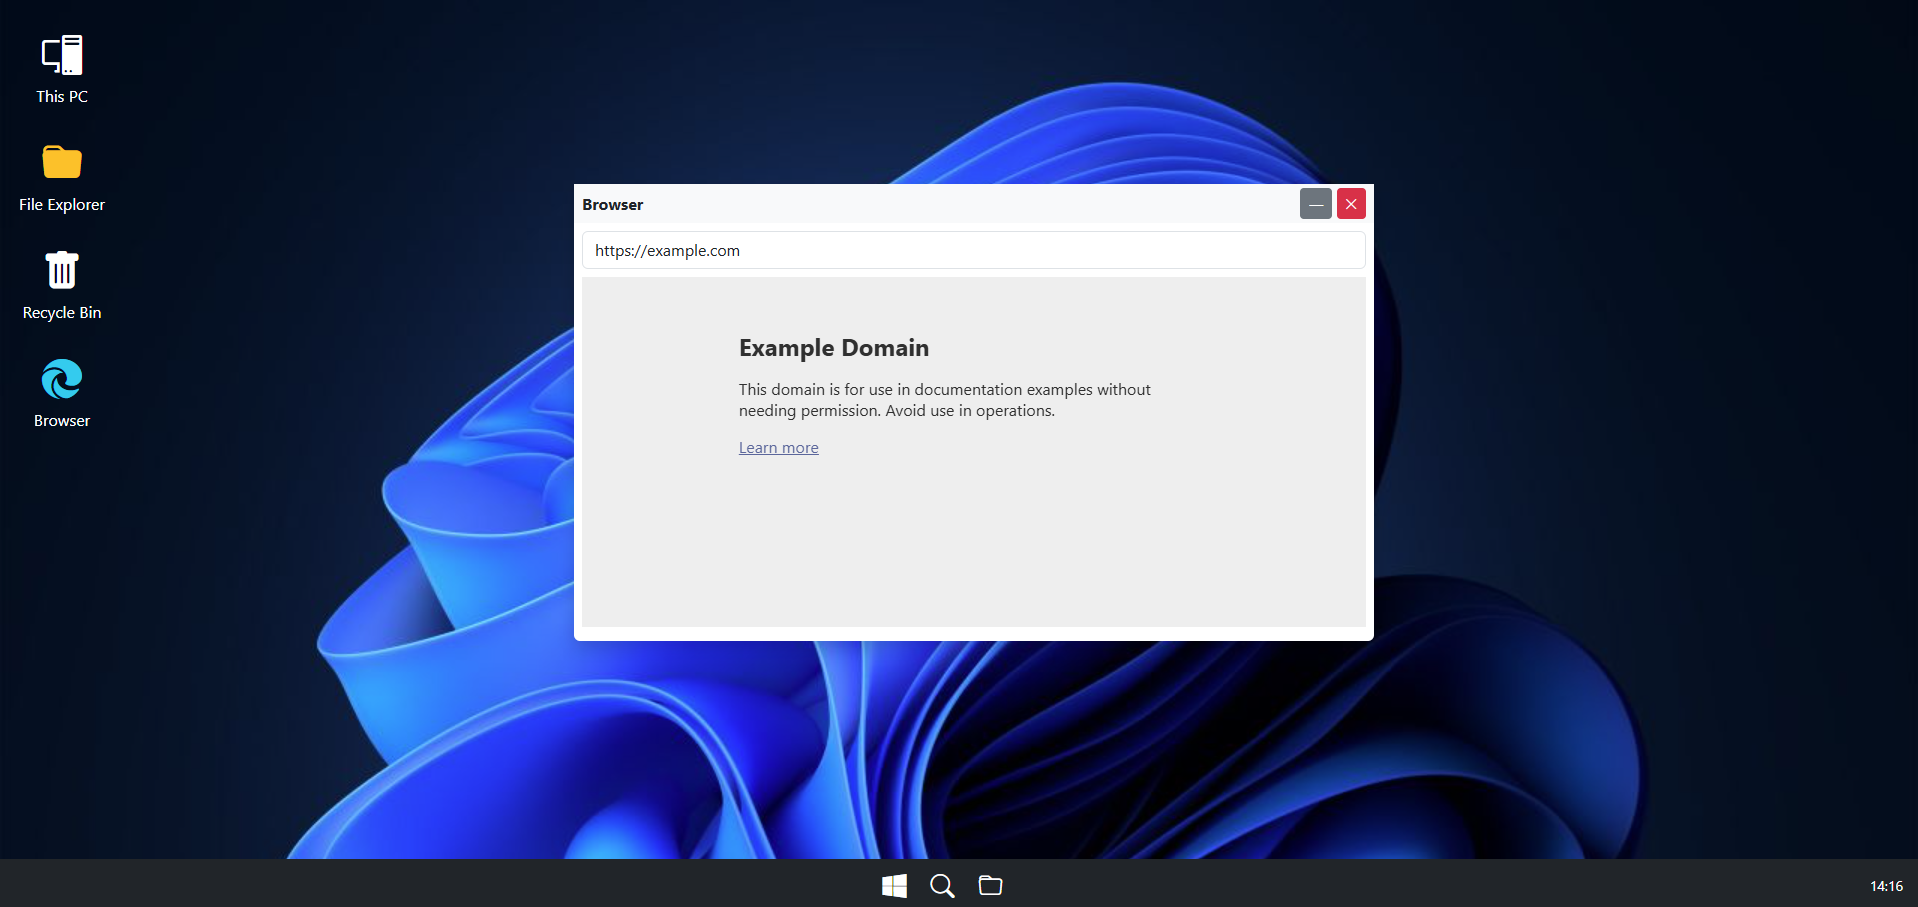
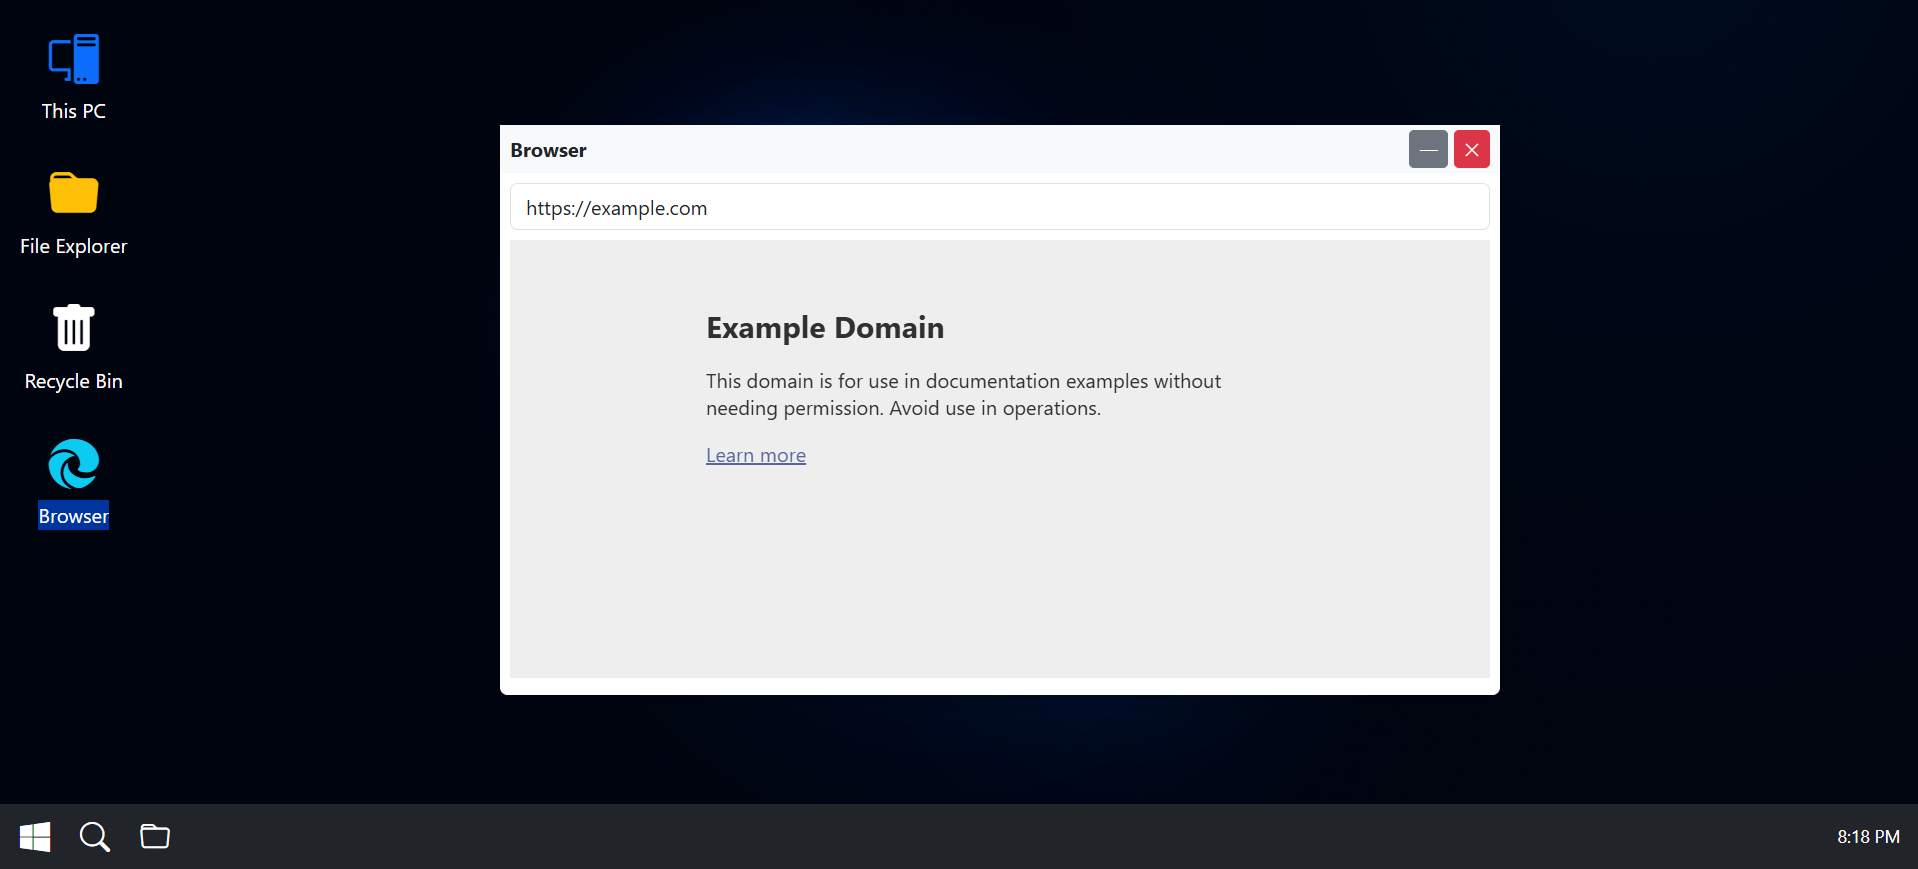
Wallpaper Centered

diff --git a/index.html b/index.html
@@ -12,8 +12,8 @@
 
 <!-- ================= Desktop ================= -->
 <div class="container-fluid vh-100 text-white"
-     style="background-image:url('wallpaper.png'); background-size:cover;">
-    <div class="row pt-4 ps-2">
+     style="background-image:url('wallpaper.png'); background-size: cover; background-position: center center;">
+    <div class="row pt-3 ps-1">
         <div class="col-auto d-flex flex-column gap-4">
 
             <div class="text-center app-icon" data-app="pc">
